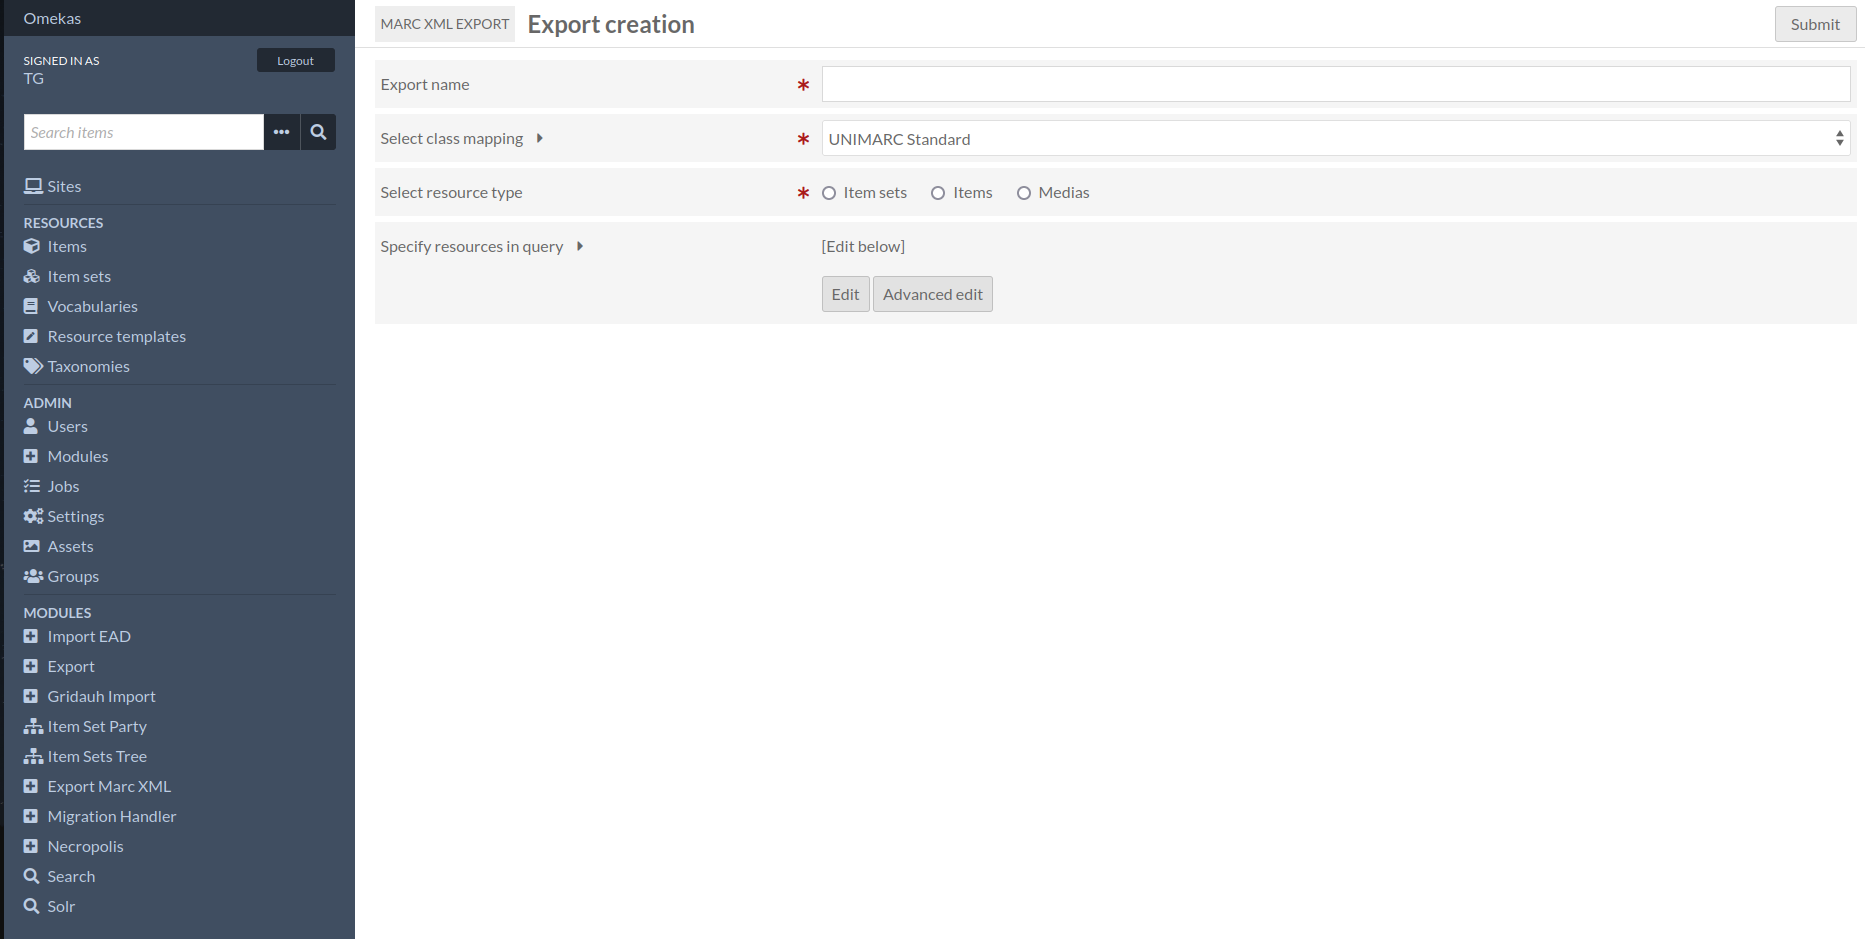
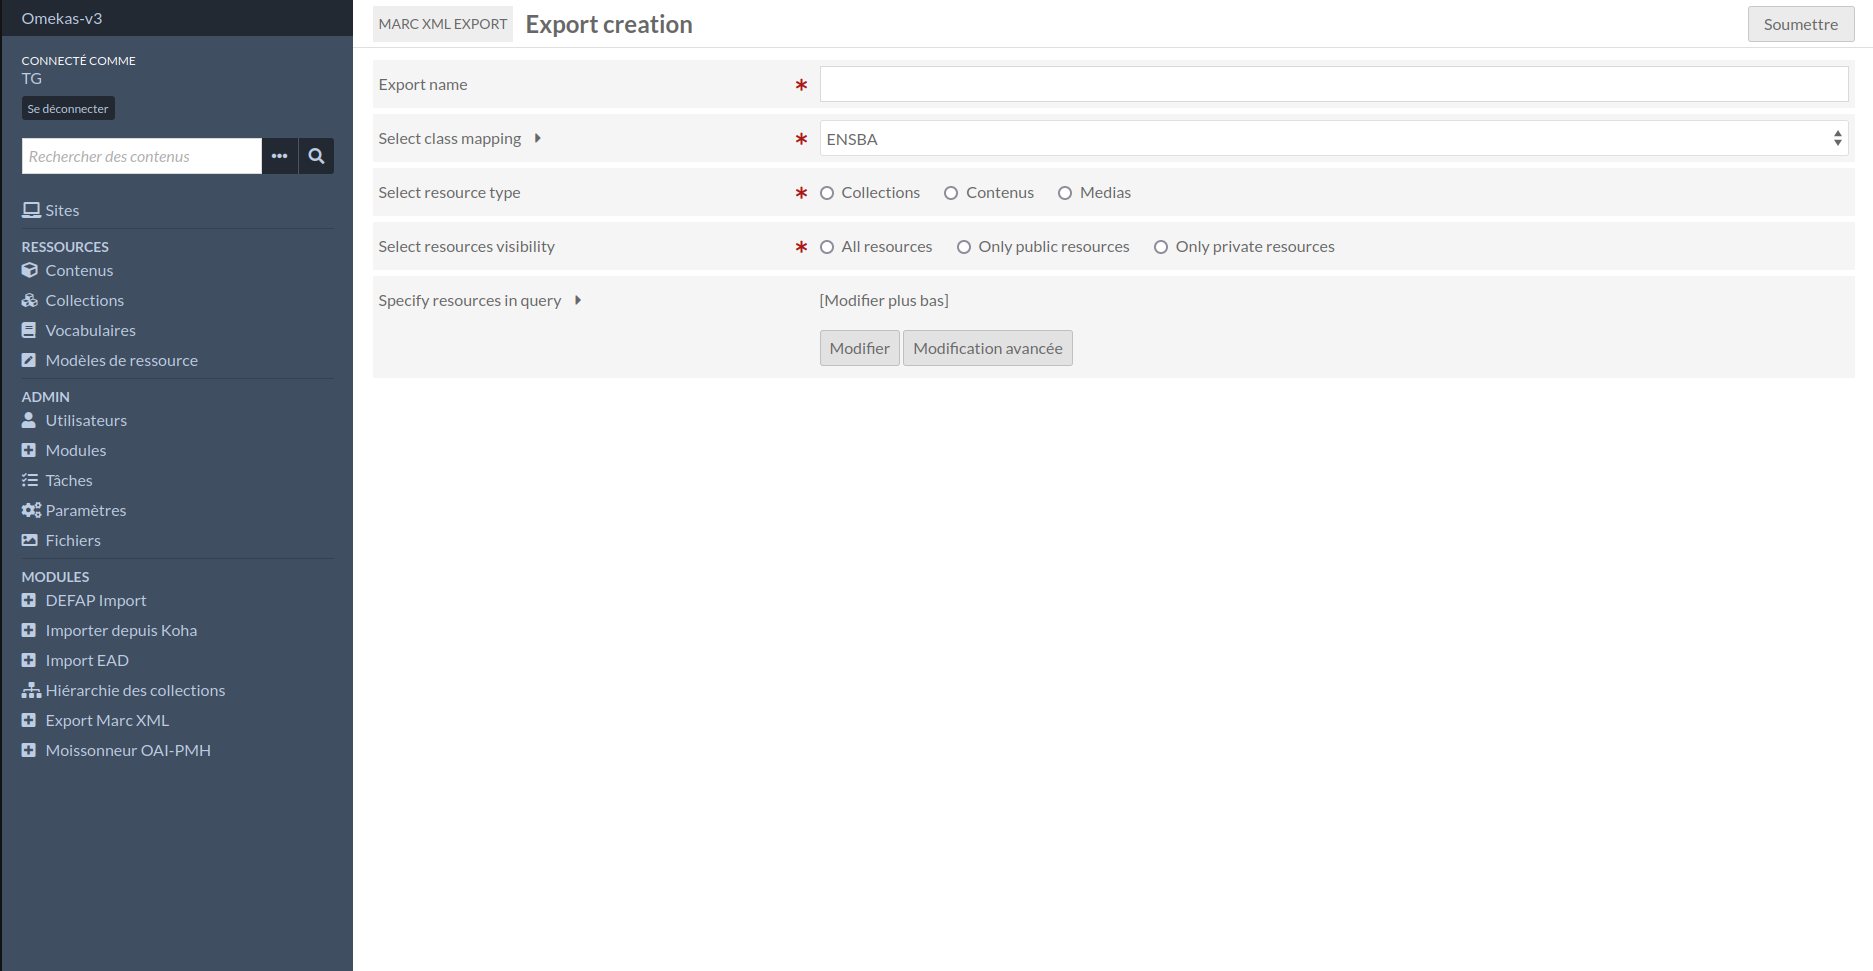
Changes to standardize resources mapping

diff --git a/src/MappingClass/Unimarc/UnimarcStandard.php b/src/MappingClass/Unimarc/UnimarcStandard.php
@@ -74,53 +74,64 @@ class UnimarcStandard extends AbstractMappingClass
             $field = $this->getFieldByTag($mappingDatas['tag'], $parentNode);
             if (is_array($values)) {
                 foreach ($values as $value) {
-                    $subfield = $dom->createElement('subfield', $this->trimAndEscape($value));
-                    $subfield->setAttribute('code', $code);
-                    $field->appendChild($subfield);
+                    if ($value->isPublic()) {
+                        $valueType = explode(':', $value->type())[0];
+                        switch ($valueType) {
+                            case 'resource':
+                                $field = $this->addResourceValue($dom, $field, $value);
+                                break;
 
-                    if (explode(':', $value->type())[0] === 'valuesuggest') {
-                        $extraMapping = $this->prepareValueSuggestValues($value);
-                        foreach ($extraMapping as $code => $value) {
-                            if (strlen($value) > 0) {
-                                $extraSubfield = $dom->createElement('subfield', $this->trimAndEscape($value));
-                                $extraSubfield->setAttribute('code', $code);
-                                $field->appendChild($extraSubfield);
-                            }
+                            case 'valuesuggest':
+                                $field = $this->addValueSuggestValue($dom, $field, $value);
+                                break;
+
+                            case 'uri':
+                                $field = $this->addUriValue($dom, $field, $value);
+                                break;
+
+                            default:
+                                $field = $this->addLiteralValue($dom, $field, $code, $value);
+                                break;
+                        }
+
+                        if ($repeatableField && $field) {
+                            $parentNode->appendChild($field);
                         }
                     }
 
-                    if ($repeatableField) {
+                    if (!$repeatableField && $field) {
                         $parentNode->appendChild($field);
                     }
                 }
-
-                if (! $repeatableField) {
-                    $parentNode->appendChild($field);
-                }
             } else {
                 $value = $values;
-                $subfield = $dom->createElement('subfield', $this->trimAndEscape($value));
-                $subfield->setAttribute('code', $code);
+                if ($value->isPublic()) {
+                    $valueType = explode(':', $value->type())[0];
+                    switch ($valueType) {
+                        case 'resource':
+                            $field = $this->addResourceValue($dom, $field, $value);
+                            break;
 
-                $field->appendChild($subfield);
+                        case 'valuesuggest':
+                            $field = $this->addValueSuggestValue($dom, $field, $value);
+                            break;
 
-                if (explode(':', $value->type())[0] === 'valuesuggest') {
-                    $extraMapping = $this->prepareValueSuggestValues($value);
-                    foreach ($extraMapping as $code => $value) {
-                        if (strlen($value) > 0) {
-                            $extraSubfield = $dom->createElement('subfield', $this->trimAndEscape($value));
-                            $extraSubfield->setAttribute('code', $code);
-                            $field->appendChild($extraSubfield);
-                        }
+                        case 'uri':
+                            $field = $this->addUriValue($dom, $field, $value);
+                            break;
+
+                        default:
+                            $field = $this->addLiteralValue($dom, $field, $code, $value);
+                            break;
                     }
-                }
 
-                if ($repeatableField) {
-                    $parentNode->appendChild($field);
-                }
+                    if ($repeatableField && $field) {
+                        $parentNode->appendChild($field);
+                    }
 
-                if (! $repeatableField) {
-                    $parentNode->appendChild($field);
+                    if (!$repeatableField && $field) {
+                        $parentNode->appendChild($field);
+                    }
                 }
             }
         }
@@ -162,30 +173,6 @@ class UnimarcStandard extends AbstractMappingClass
                 $parentNode->appendChild($field);
             }
         }
-    }
-
-    protected function prepareValueSuggestValues($value)
-    {
-        $valueArray = $value->jsonSerialize();
-        $extraMapping = [];
-
-        $extraMapping['0'] = end(explode('/', $valueArray['@id']));
-        $label = $valueArray['o:label'];
-
-        if ($value->type() === 'valuesuggest:idref:person') {
-            $extraMapping['a'] = explode(',', $label)[0];
-            if (strpos($value, '(')) {
-                $extraMapping['b'] = $this->getStringBetween($label, ',', '(');
-                $extraMapping['d'] = $this->getStringBetween($label, '(', ')');
-            } else {
-                $extraMapping['b'] = explode(',', $label)[1];
-            }
-        } else {
-            $extraMapping['a'] = $label;
-            $extraMapping['u'] = $valueArray['@id'];
-        }
-
-        return $extraMapping;
     }
 
     protected function getDom()
@@ -255,7 +242,7 @@ class UnimarcStandard extends AbstractMappingClass
             '001' => $resource->id(),
             '099' => ['c' => $resource->created()->format('Y-m-d'), 'd' => $resource->modified()->format('Y-m-d')],
             '299' => ['a' => "OMEKAS", 'b' => $resourceTypeValues[$resourceType]],
-            '956' => ['u' => $resource->thumbnailDisplayUrl('medium')],
+            '956' => ['u' => $resource->thumbnailDisplayUrl('large')],
             '995' => ['a' => 'Bibliothèque numérique', 'b' => 'Bibliothèque numérique', 'f' => 'omekas-' . $resource->id(), 'r' => 'lz'],
         ];
 
@@ -295,7 +282,6 @@ class UnimarcStandard extends AbstractMappingClass
             'dcterms:temporal' => ['tag' => '661', 'repeatable' => true, 'subfield' => 'a', 'repeatable_subfield' => false],
             'dcterms:creator' => ['tag' => '700', 'repeatable' => false, 'subfield' => 'a', 'repeatable_subfield' => false],
             'dcterms:contributor' => ['tag' => '702', 'repeatable' => true, 'subfield' => 'g', 'repeatable_subfield' => false],
-            'koha:biblionumber' => ['tag' => '035', 'repeatable' => true, 'subfield' => 'a', 'repeatable_subfield' => false],
             'dcterms:relation' => ['tag' => '856', 'repeatable' => true, 'subfield' => 'a', 'repeatable_subfield' => true],
             'dcterms:instructionalMethod' => ['tag' => '901', 'repeatable' => true, 'subfield' => 'a', 'repeatable_subfield' => true],
             'dcterms:rights' => ['tag' => '371', 'repeatable' => true, 'subfield' => 'a', 'repeatable_subfield' => false],
@@ -339,5 +325,103 @@ class UnimarcStandard extends AbstractMappingClass
         }
 
         return $repeatableFieldsMapping;
+    }
+
+    protected function addLiteralValue($dom, $field, $code, $value)
+    {
+        $subfield = $dom->createElement('subfield', $this->trimAndEscape($value));
+        $subfield->setAttribute('code', $code);
+        $field->appendChild($subfield);
+
+        return $field;
+    }
+
+    protected function addResourceValue($dom, $field, $value)
+    {
+        $resource = $value->valueResource();
+        $resourceController = $resource->getControllerName();
+
+        $subfield = $dom->createElement('subfield', $this->trimAndEscape($resource->displayTitle()));
+        $subfield->setAttribute('code', 'a');
+        $field->appendChild($subfield);
+
+        switch ($resourceController) {
+            case 'item-set':
+                $subfieldValue = $resource->id();
+                $code = '2';
+                break;
+
+            case 'item':
+                $subfieldValue = $resource->id();
+                $code = '1';
+                break;
+
+            case 'media':
+                $subfieldValue = $resource->id();
+                $code = '3';
+                break;
+
+            case 'taxonomy':
+                $subfieldValue = $resource->code();
+                $code = '1';
+                break;
+        }
+
+        if (!$code) {
+            return null;
+        }
+
+        $subfield = $dom->createElement('subfield', $this->trimAndEscape($subfieldValue));
+        $subfield->setAttribute('code', $code);
+        $field->appendChild($subfield);
+
+        return $field;
+    }
+
+    protected function addValueSuggestValue($dom, $field, $value)
+    {
+        $valueArray = $value->jsonSerialize();
+        $valueSuggestMapping = [];
+
+        $valueSuggestMapping['3'] = end(explode('/', $valueArray['@id']));
+        $label = $valueArray['o:label'];
+
+        if ($value->type() === 'valuesuggest:idref:person') {
+            $valueSuggestMapping['a'] = explode(',', $label)[0];
+            if (strpos($value, '(')) {
+                $valueSuggestMapping['b'] = $this->getStringBetween($label, ',', '(');
+                $valueSuggestMapping['d'] = $this->getStringBetween($label, '(', ')');
+            } else {
+                $valueSuggestMapping['b'] = explode(',', $label)[1];
+            }
+            $valueSuggestMapping['2'] = 'idref:person';
+        } else {
+            $valueSuggestMapping['a'] = $label;
+            $valueSuggestMapping['u'] = $valueArray['@id'];
+            $valueSuggestMapping['2'] = explode(':', $value->type(), 2)[1];
+        }
+
+        foreach ($valueSuggestMapping as $code => $valueSuggestValue) {
+            if (strlen($valueSuggestValue) > 0) {
+                $subfield = $dom->createElement('subfield', $this->trimAndEscape($valueSuggestValue));
+                $subfield->setAttribute('code', $code);
+                $field->appendChild($subfield);
+            }
+        }
+
+        return $field;
+    }
+
+    protected function addUriValue($dom, $field, $value)
+    {
+        $subfieldUri = $dom->createElement('subfield', $this->trimAndEscape($value->uri()));
+        $subfieldUri->setAttribute('code', 'u');
+        $field->appendChild($subfieldUri);
+
+        $subfieldValue = $dom->createElement('subfield', $this->trimAndEscape($value->value()));
+        $subfieldValue->setAttribute('code', 'z');
+        $field->appendChild($subfieldValue);
+
+        return $field;
     }
 }

diff --git a/src/Job/ExportJob.php b/src/Job/ExportJob.php
@@ -26,9 +26,9 @@ class ExportJob extends AbstractJob
         $queryParams = $this->getArg('query_params');
         $resourceVisibility = $this->getArg('resource_visibility');
 
-        if($resourceVisibility != 'all') {
+        if ($resourceVisibility != 'all') {
             $isPublic = $resourceVisibility == 'public' ? '1' : '0';
-            if(strlen($queryParams) > 0) {
+            if (strlen($queryParams) > 0) {
                 $queryParams .= "&is_public=$isPublic";
             } else {
                 $queryParams .= "is_public=$isPublic";

diff --git a/Module.php b/Module.php
@@ -72,7 +72,7 @@ class Module extends AbstractModule
     public function upgrade($oldVersion, $newVersion, ServiceLocatorInterface $serviceLocator)
     {
         $connection = $serviceLocator->get('Omeka\Connection');
-        if (Comparator::lessThan($oldVersion, '0.2.0')) { 
+        if (Comparator::lessThan($oldVersion, '0.2.0')) {
             $sql = "ALTER TABLE `marc_xml_export_exports` ADD COLUMN resource_visibility VARCHAR(255) NOT NULL";
             $connection->exec($sql);
         }

diff --git a/src/Form/ExportForm.php b/src/Form/ExportForm.php
@@ -2,7 +2,6 @@
 
 namespace MarcXmlExport\Form;
 
-use Laminas\Form\Element\Checkbox;
 use Laminas\Form\Form;
 use Laminas\Form\Element\Radio;
 use Laminas\Form\Element\Select;

diff --git a/documentation/tutorials.rst b/documentation/tutorials.rst
@@ -9,6 +9,7 @@ To create a new export, simply submit the form, indicating :
 "The name of the export"
 "The mapping to be used"
 "Resource type"
+"Resources visibility"
 
 .. image:: images/MarcXMLExport_new-sidebar-sample.png
 
